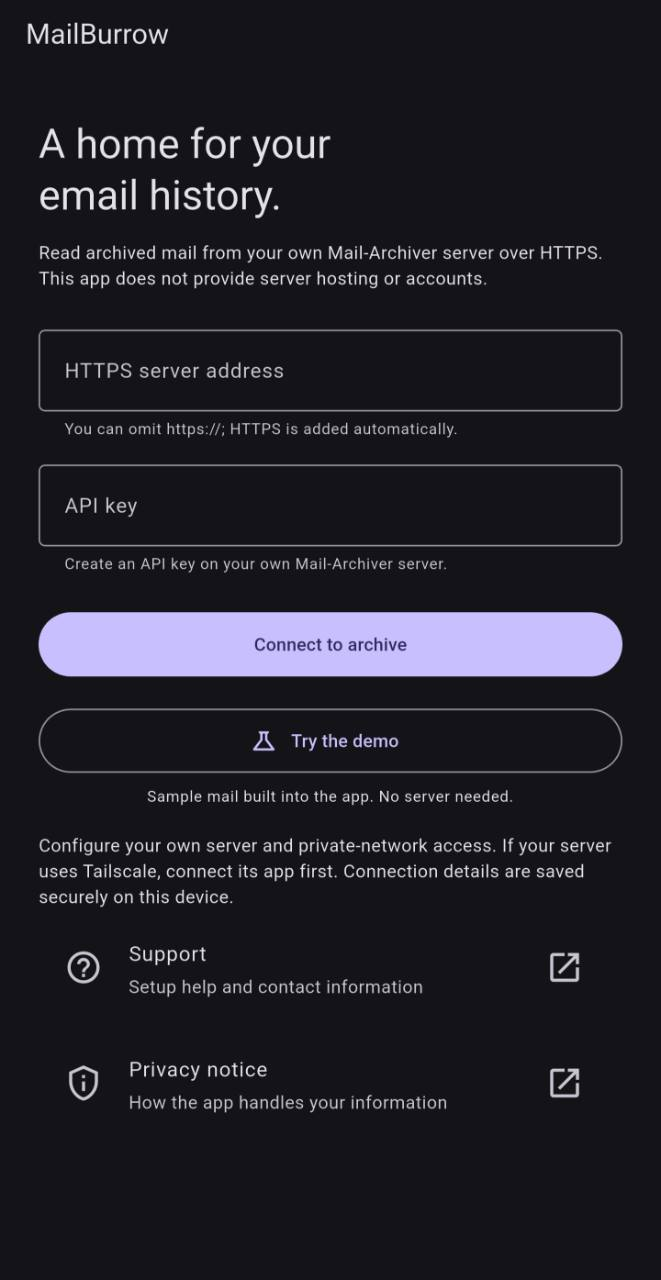
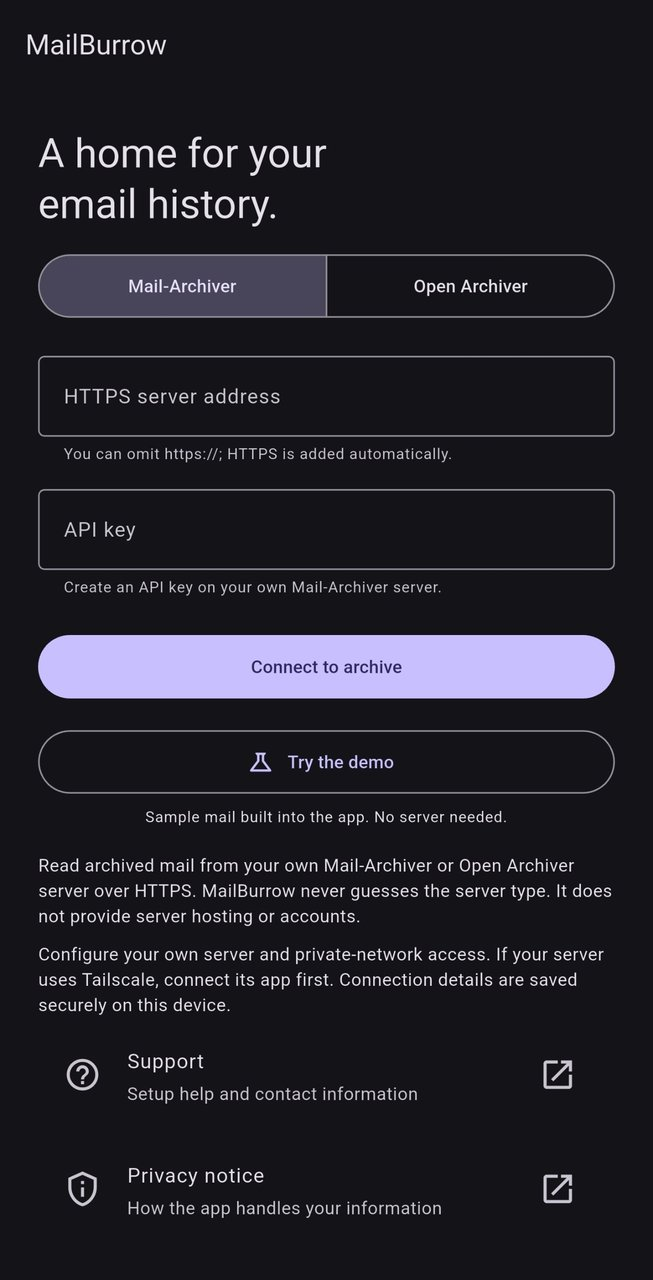
Update the README setup screenshot for the server-type choice
Dark-mode setup screen from a fresh debug install: Mail-Archiver / Open
Archiver choice, empty address and key fields, no saved archives, status
bar cropped. Resized to 1280 px high like the other screenshots, without
EXIF metadata.

Claude-Session: https://claude.ai/code/session_01VAvgB9dNWtJBuNHAAxsPDH

diff --git a/CHANGELOG.md b/CHANGELOG.md
@@ -18,6 +18,7 @@ Support for a second archive server type, Open Archiver 0.6.2. Mail-Archiver use
 - Reject ambiguous saved records with an explicit null version or a server type without a version before creating an API client; preserve the stored record for recovery.
 
 - **Testing tools:** `tools/generate_stress_mail.py` generates fictional large and unusual messages for the phone memory check, `tools/sample_app_memory.ps1` reports the app's peak memory over adb, and `tools/oa_stress_check.py` confirms Open Archiver kept each stress case's structure after import.
+- README setup screenshot shows the server-type choice.
 - **Documentation:** the setup guide, website and README cover Open Archiver 0.6.2, including a read-only role policy (**Admin → Roles**), API keys, serving two servers on one machine with Tailscale, and several saved archives. Troubleshooting adds the Open Archiver messages. The privacy notice covers several saved archives and what Open Archiver sends (attachment text in search results, original messages with inline images, preserve-original sources not opened). The interim feature-branch notes are removed.
 - Offline with a VPN such as Tailscale still on, connection errors appear after about 10 seconds instead of up to 30, and **Cancel** on the Connecting and Opening screens and in the account list stops waiting at once without opening or saving anything. Cancellation is disabled during the secure-storage commit; late cancelled restores cannot overwrite a newer attempt’s state.
 - If a saved archive's key is no longer accepted, setup offers **Enter a new key** for that archive only; the other archives and their keys are not touched.

diff --git a/README.md b/README.md
@@ -4,7 +4,7 @@ A read-only Android and iOS app for browsing your own [Mail-Archiver](https://gi
 
 MailBurrow is an early preview. A signed Android prerelease, [0.3.0-rc.9](https://github.com/Kuncarlos91/MailBurrow/releases/tag/v0.3.0-rc.9), is available for 64-bit ARM phones; it is not in the app stores, and iPhone/iPad builds are source-only. Open Archiver and several saved archives require a 0.4.0 build; the linked RC9 download supports Mail-Archiver and one saved archive. See [project status](docs/testing/status.md).
 
-<img src="docs/images/setup-screen.jpg" alt="MailBurrow setup in dark mode with empty server and API key fields, Connect to archive, Try the demo, Support and Privacy notice" width="270">
+<img src="docs/images/setup-screen.jpg" alt="MailBurrow setup in dark mode: a Mail-Archiver or Open Archiver server-type choice, empty server address and API key fields, Connect to archive, Try the demo, Support and Privacy notice" width="270">
 
 > **Just want to look around first?** Tap **Try the demo** on the setup screen. It opens fictional sample mail built into the app, with no server, account or network needed. See [Try it without a server](#try-it-without-a-server).
 
